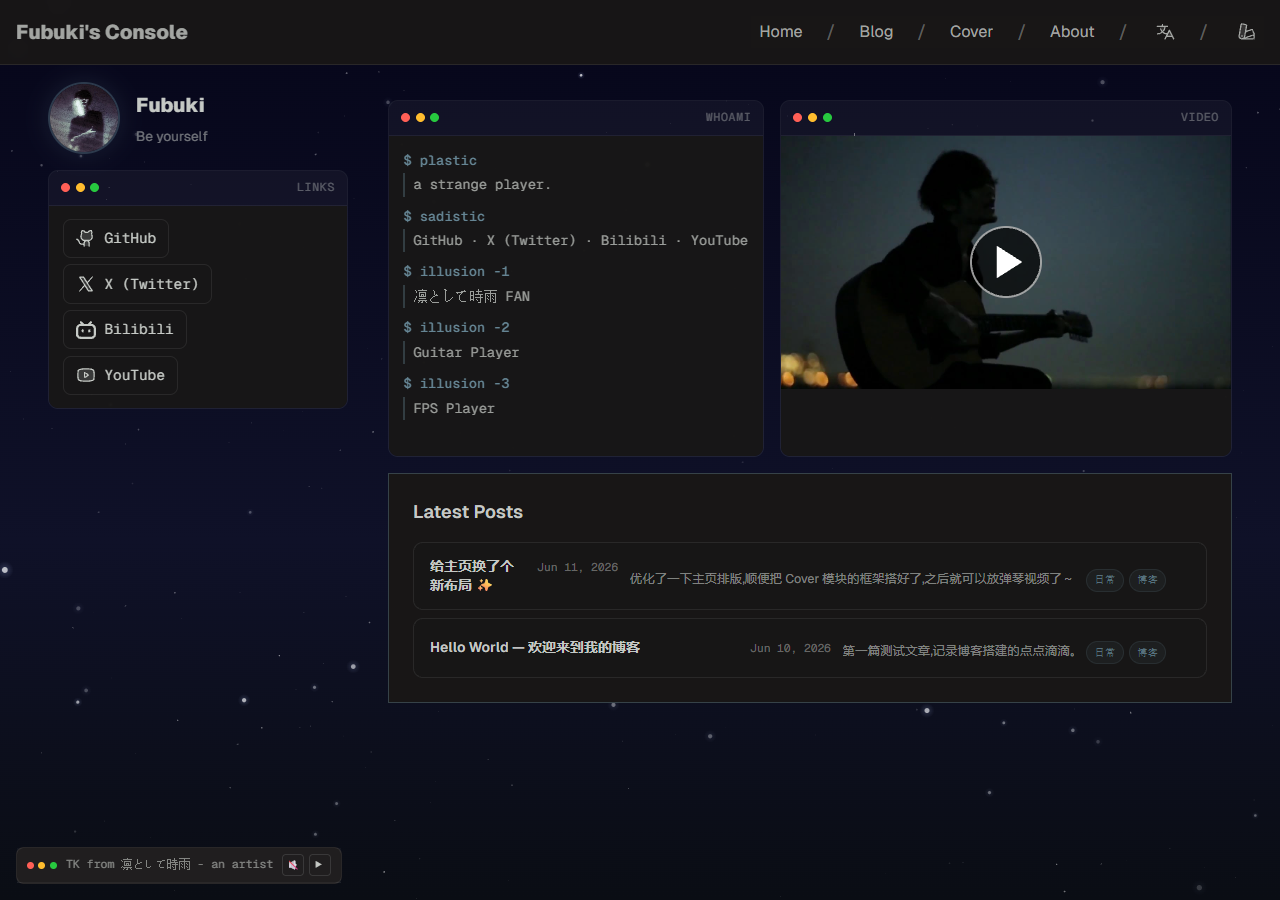
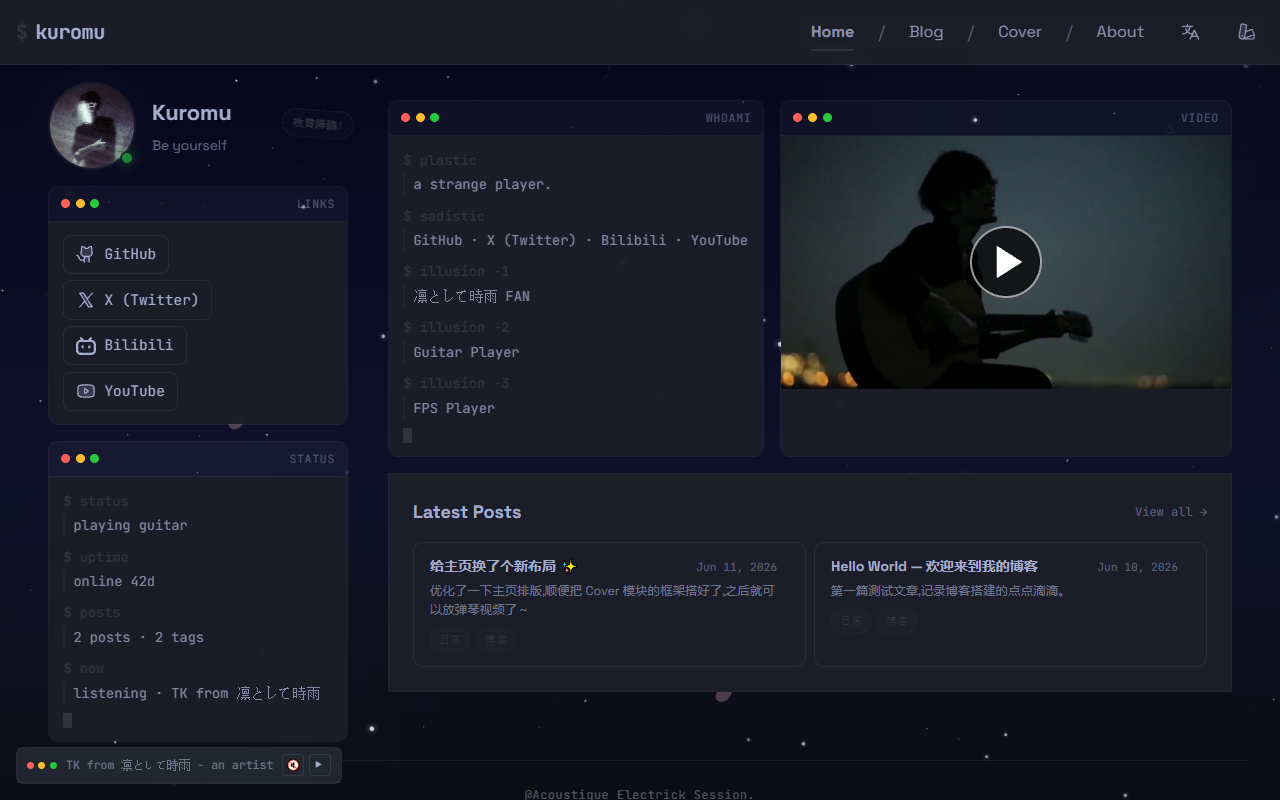
docs: README 同步 Kuromu 品牌、夜乃くろむ主题与新预览图，新增 deploy 脚本

diff --git a/README.md b/README.md
@@ -1,12 +1,12 @@
 <div align="center">
 
-  # ❄ Fubuki's Station
+  # 💀 Kuromu's Console
 
-  **吹雪降臨** — 一个融合 Spectre 美学与终端风格的 Astro 个人博客
+  **夜乃くろむ** — 一个融合哥特可爱与终端美学的 Astro 个人博客
 
-  [![Astro](https://img.shields.io/badge/Astro-5.18-8c5cf5?logo=astro)](https://astro.build)
+  [![Astro](https://img.shields.io/badge/Astro-5.18-909ec8?logo=astro)](https://astro.build)
   [![Tailwind](https://img.shields.io/badge/Tailwind-v4-06b6d4?logo=tailwindcss)](https://tailwindcss.com)
-  [![Cloudflare](https://img.shields.io/badge/Cloudflare-Pages-f38020?logo=cloudflare)](https://pages.cloudflare.com)
+  [![Cloudflare](https://img.shields.io/badge/Cloudflare-Workers-f38020?logo=cloudflare)](https://workers.cloudflare.com)
   [![License](https://img.shields.io/badge/License-MIT-green)](./LICENSE)
 
   🌐 **[fubuki.asia](https://fubuki.asia)**
@@ -21,8 +21,16 @@
 
 <table>
   <tr>
+    <td>🌙 <b>夜乃くろむ主题</b></td>
+    <td>VSPO! 夜乃くろむ应援色 #909ec8（雾蓝灰）贯穿全站</td>
+  </tr>
+  <tr>
+    <td>💀 <b>定制入场动画</b></td>
+    <td>残月 × 鬼火 × 锁链 × 墓地剪影，灵魂显现 Logo + 小骷髅落场</td>
+  </tr>
+  <tr>
     <td>🎨 <b>60+ 主题</b></td>
-    <td>Shiki 驱动的动态主题系统，一键切换明暗风格</td>
+    <td>Shiki 驱动的主题系统，默认雾蓝灰，可手动切换明暗风格</td>
   </tr>
   <tr>
     <td>💻 <b>终端美学</b></td>
@@ -31,10 +39,6 @@
   <tr>
     <td>🌐 <b>双语支持</b></td>
     <td>中文 / English，文件名后缀自动识别语言版本</td>
-  </tr>
-  <tr>
-    <td>🌸 <b>樱花入场动画</b></td>
-    <td>每次访问首页随机主题 + 花瓣飘落 + 黑客帝国风格解码效果</td>
   </tr>
   <tr>
     <td>🎵 <b>内置音乐播放器</b></td>
@@ -62,7 +66,7 @@
 | 样式 | [Tailwind CSS v4](https://tailwindcss.com) |
 | 图标 | [Astro Icon](https://github.com/natemoo-re/astro-icon) + Phosphor |
 | 内容 | MDX + Markdown with code highlighting |
-| 部署 | [Cloudflare Pages](https://pages.cloudflare.com) |
+| 部署 | [Cloudflare Workers](https://workers.cloudflare.com)（静态资源模式） |
 | 评论 | [Giscus](https://giscus.app) |
 
 ## 🚀 本地开发
@@ -82,6 +86,9 @@ yarn preview
 
 # 生成主题颜色
 yarn generate:themes
+
+# 部署到 Cloudflare
+yarn deploy
 ```
 
 ## 📝 写博客
@@ -109,5 +116,5 @@ MIT © [RIMECHU](https://github.com/RIMECHU)
 ---
 
 <div align="center">
-  <sub>Made with ❤ by Fubuki · <a href="https://fubuki.asia">fubuki.asia</a></sub>
+  <sub>Made with ❤ by Kuromu · <a href="https://fubuki.asia">fubuki.asia</a></sub>
 </div>
